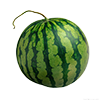
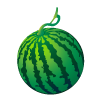
add melon break effect

diff --git a/app/styles/10_cinema.sass b/app/styles/10_cinema.sass
@@ -96,10 +96,12 @@
     background-image: url(/img/shoe.png)
   .melon
     background-image: url(/img/melon.png)
+  .melon.break
+    background-image: url(/img/melon-break.png)
   .egg
     background-image: url(/img/egg.png)
   .egg.break
-    background-image: url(/img/egg-break.png)!important
+    background-image: url(/img/egg-break.png)
     
   .white-banner
     width: 650px
